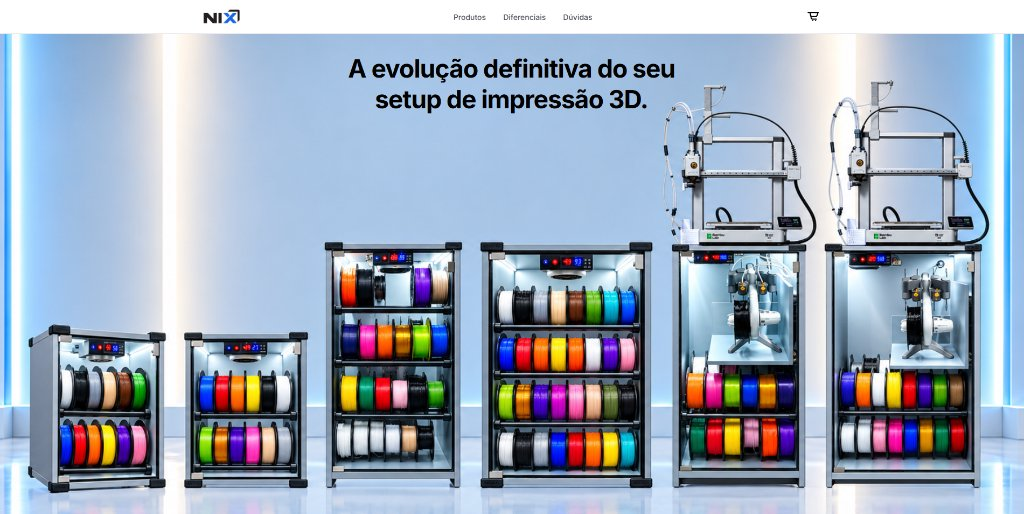
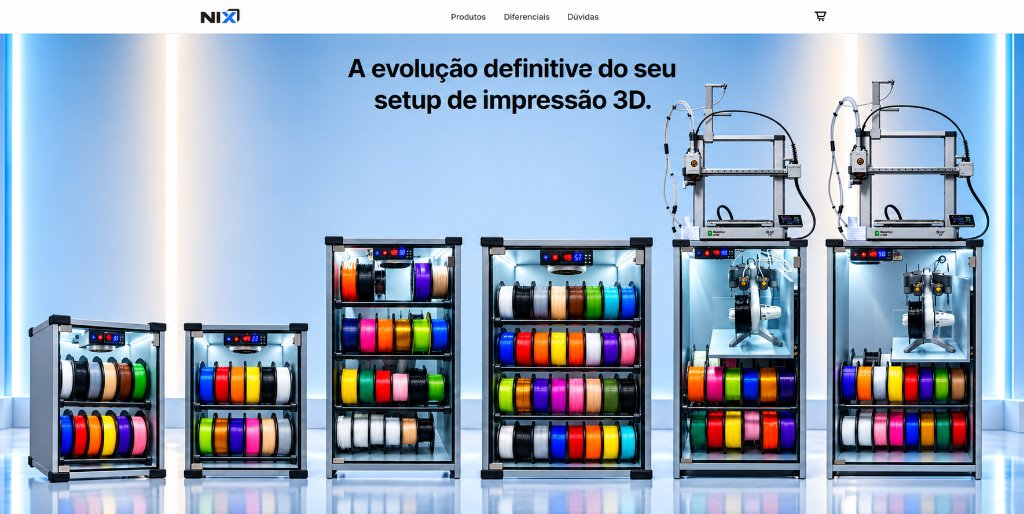
feat(portfolio): update NIX project hero image to 3D printing setup evolution

diff --git a/05-build/pt/index.html b/05-build/pt/index.html
@@ -190,7 +190,7 @@
               </div>
             </div>
             <a href="#contact" class="project-visual reveal-image delay-1" aria-label="Ver detalhes do Projeto NIX">
-              <img src="../assets/nix-website-hero.jpg" alt="Projeto NIX — Setup de Impressão 3D"
+              <img src="../assets/Evolução do Setup de Impressão 3D.png" alt="Projeto NIX — Setup de Impressão 3D"
                 style="width: 100%; height: 100%; min-height: 420px; object-fit: cover; object-position: center;">
             </a>
           </article>

diff --git a/pt/index.html b/pt/index.html
@@ -190,7 +190,7 @@
               </div>
             </div>
             <a href="#contact" class="project-visual reveal-image delay-1" aria-label="Ver detalhes do Projeto NIX">
-              <img src="../assets/nix-website-hero.jpg" alt="Projeto NIX — Setup de Impressão 3D"
+              <img src="../assets/Evolução do Setup de Impressão 3D.png" alt="Projeto NIX — Setup de Impressão 3D"
                 style="width: 100%; height: 100%; min-height: 420px; object-fit: cover; object-position: center;">
             </a>
           </article>

diff --git a/05-build/en/index.html b/05-build/en/index.html
@@ -190,7 +190,7 @@
               </div>
             </div>
             <a href="#contact" class="project-visual reveal-image delay-1" aria-label="View project NIX details">
-              <img src="../assets/nix-website-hero.jpg" alt="NIX 3D Printing Setup Experience"
+              <img src="../assets/Evolução do Setup de Impressão 3D.png" alt="NIX 3D Printing Setup Experience"
                 style="width: 100%; height: 100%; min-height: 420px; object-fit: cover; object-position: center;">
             </a>
           </article>

diff --git a/en/index.html b/en/index.html
@@ -190,7 +190,7 @@
               </div>
             </div>
             <a href="#contact" class="project-visual reveal-image delay-1" aria-label="View project NIX details">
-              <img src="../assets/nix-website-hero.jpg" alt="NIX 3D Printing Setup Experience"
+              <img src="../assets/Evolução do Setup de Impressão 3D.png" alt="NIX 3D Printing Setup Experience"
                 style="width: 100%; height: 100%; min-height: 420px; object-fit: cover; object-position: center;">
             </a>
           </article>

diff --git a/08-delivery/changelog.md b/08-delivery/changelog.md
@@ -4,6 +4,14 @@ Todas as alterações notáveis deste projeto estão registradas neste documento
 
 ---
 
+## 2026-11-05 — Atualização da Imagem do Case NIX
+**Pedido por:** Usuário  
+**O que mudou:**  
+- Atualizada a imagem visual do projeto 01 (NIX) para a nova composição panorâmica de equipamentos de impressão 3D e dry boxes (`assets/Evolução do Setup de Impressão 3D.png`).  
+**Arquivos alterados:** `pt/index.html`, `en/index.html`, `assets/Evolução do Setup de Impressão 3D.png`, `05-build/pt/index.html`, `05-build/en/index.html`, `05-build/assets/Evolução do Setup de Impressão 3D.png`.
+
+---
+
 ## 2026-11-05 — Substituição do Case 02: Mano's Car por IKEWAI
 **Pedido por:** Usuário  
 **O que mudou:**  
